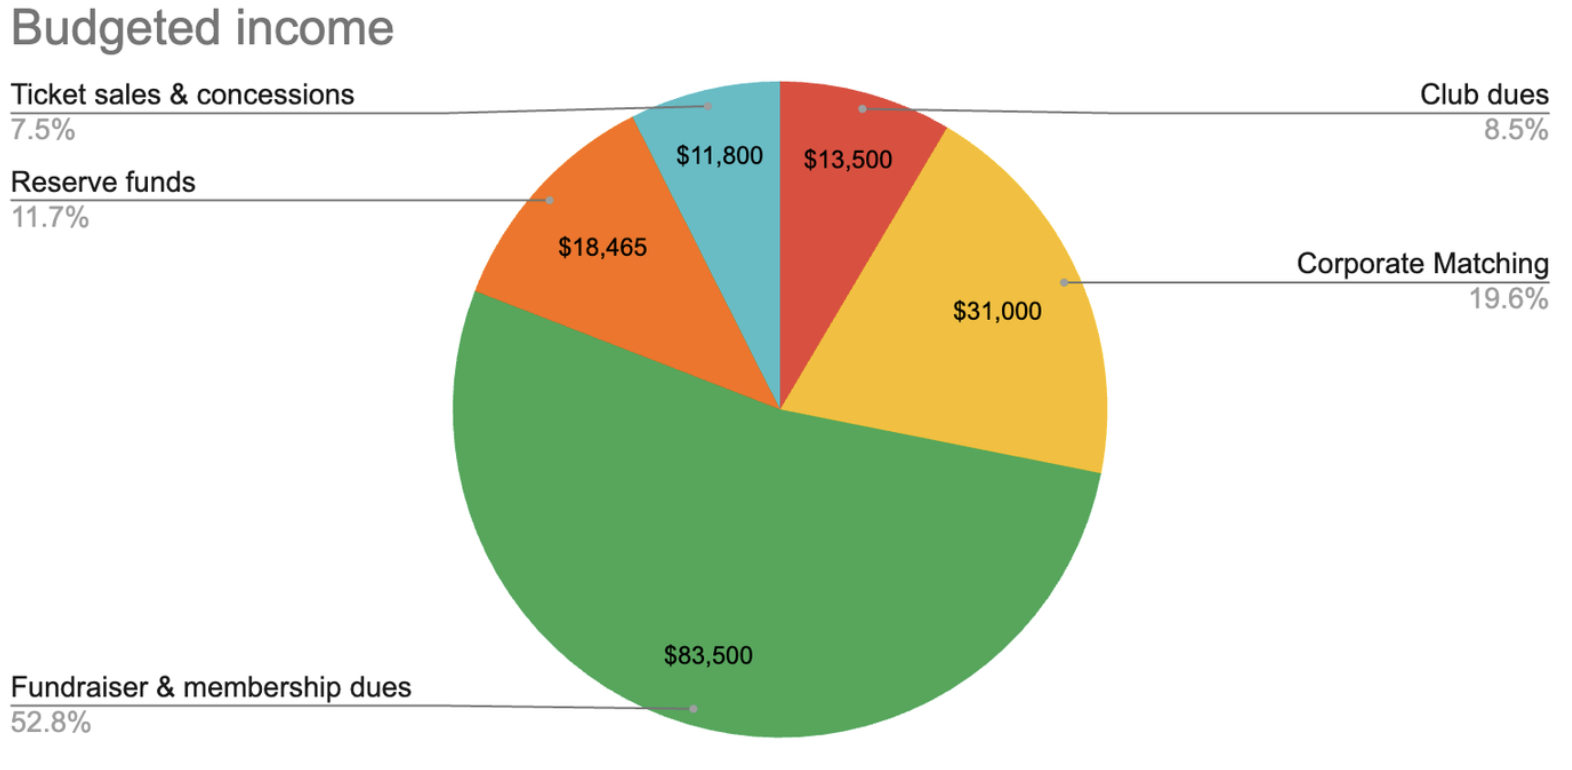
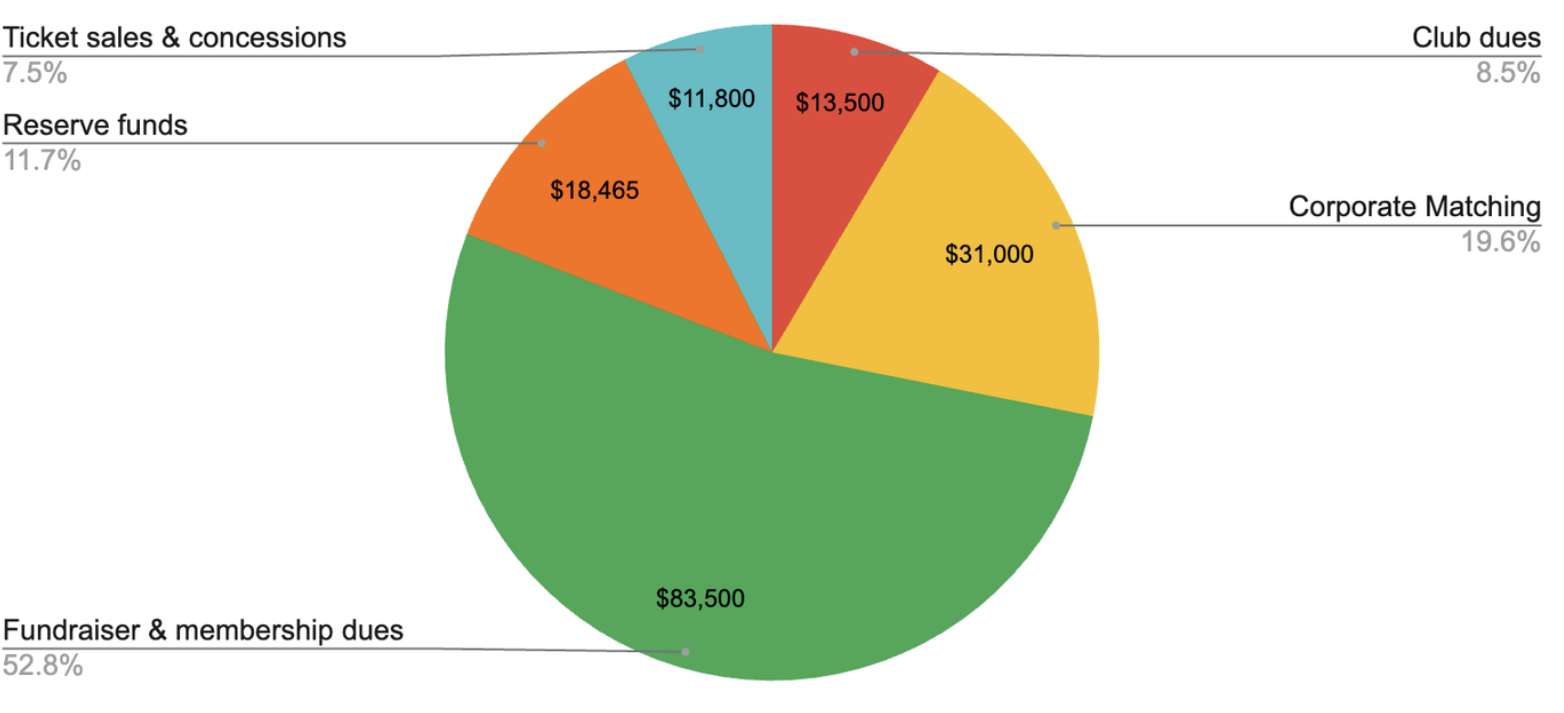
Pull new content from fundraiser flyer front page onto /donate
Adds prizes/raffle details, envelope return deadline, and company
matching paperwork note. Links the homepage callout and donate page
to the new What Does the PTA Fund? page.

diff --git a/public/donate.html b/public/donate.html
@@ -64,10 +64,16 @@
 <p><img src="assets/images/ninja-warrior-run-poster.png" alt="Ninja Warrior Run event poster"></p>
 <p><strong>Event Date:</strong> October 7, 2026</p>
 <p><strong>Fundraising Goal:</strong> $113,000</p>
-<p>That's just $155 per student — help your child reach out to neighbors, friends, and family for support. Donations can be made online below, or by cash/check returned in the fundraising envelope your child will receive the week of September 14. Don't forget to include any company matching info to double your impact!</p>
+<p>That's just $155 per student — help your child reach out to neighbors, friends, and family for support. Donations can be made online below, or by cash/check (payable to Ben Franklin PTA) returned in the fundraising envelope your child will receive the week of September 14; please return envelopes by October 7. Don't forget to check with your company about matching — it doubles your impact! Just include a copy of the completed matching paperwork.</p>
 <p><a href="https://my.cheddarup.com/c/ninja-warrior-run-fundraiser-2026/items" class="btn">Donate Now</a></p>
 <p>For the next few weeks, we'll share tips to make fundraising easy. Then on October 7th, students will celebrate by running an obstacle course during recess!</p>
 <p>We can always use extra hands to make it a fun day for everyone — <a href="https://www.signupgenius.com/go/10C0F4CAFAB2BA1FAC34-65664830-franklin">sign up to volunteer here</a>.</p>
+<h2>Prizes and Raffle</h2>
+<ul>
+<li>A pizza party for the class with the most donations</li>
+<li>Any class that reaches 100% donation participation before October 1, 2026 gets to run the obstacle course twice!</li>
+<li>Drawings for students who raise over $155 — the more you raise, the potentially bigger the prize!</li>
+</ul>
 <h2>Support Our School</h2>
 <p>Every contribution counts! Your generous donations will help the PTA fund essential programs and activities that enhance our children's education and school experience. The funds raised during the Ninja Warrior Run help support a variety of activities and programs, including:</p>
 <ul>
@@ -80,6 +86,7 @@
 <li>On-campus workshops, assemblies, and symposiums</li>
 <li>Books for the library and art supplies</li>
 </ul>
+<p>See <a href="what-we-fund.html">What Does the PTA Fund?</a> for a full breakdown of where the money goes.</p>
 <h2>Giving Levels</h2>
 <table>
 <thead>

diff --git a/public/index.html b/public/index.html
@@ -68,6 +68,7 @@
 <p>This is the PTA's only fundraiser of the year, and it makes a real difference — funding math and reading programs, staff training, classroom supplies, field trips, and enrichment for every Franklin student. Help us reach our $113,000 goal! Students celebrate with an obstacle course during recess on October 7.</p>
 <p><a href="https://my.cheddarup.com/c/ninja-warrior-run-fundraiser-2026/items" class="btn">Donate Now</a></p>
 <p><a href="donate.html" class="btn">See Event Details</a></p>
+<p>See <a href="what-we-fund.html">what your donation supports</a>.</p>
 </div>
 <h2>Announcements</h2>
 <p><strong>Fall Enrichment Class Registration.</strong> Registration for the fall session of on-campus enrichment classes opens soon! PTA member priority registration links go out 9/11 (join or renew your <a href="membership.html">membership</a> by 9/10 to be included); general registration is announced in the PTA newsletter 9/14. See the <a href="enrichment.html">Enrichment Classes</a> page for the full lineup — Bricks 4 Kidz, Chess Club, Ball Hockey, and After School Art.</p>

diff --git a/content/donate.md b/content/donate.md
@@ -16,13 +16,19 @@ We're kicking off the year with our only fundraising event, the Ninja Warrior Ru
 
 **Fundraising Goal:** $113,000
 
-That's just $155 per student — help your child reach out to neighbors, friends, and family for support. Donations can be made online below, or by cash/check returned in the fundraising envelope your child will receive the week of September 14. Don't forget to include any company matching info to double your impact!
+That's just $155 per student — help your child reach out to neighbors, friends, and family for support. Donations can be made online below, or by cash/check (payable to Ben Franklin PTA) returned in the fundraising envelope your child will receive the week of September 14; please return envelopes by October 7. Don't forget to check with your company about matching — it doubles your impact! Just include a copy of the completed matching paperwork.
 
 <a href="https://my.cheddarup.com/c/ninja-warrior-run-fundraiser-2026/items" class="btn">Donate Now</a>
 
 For the next few weeks, we'll share tips to make fundraising easy. Then on October 7th, students will celebrate by running an obstacle course during recess!
 
 We can always use extra hands to make it a fun day for everyone — [sign up to volunteer here](https://www.signupgenius.com/go/10C0F4CAFAB2BA1FAC34-65664830-franklin).
+
+## Prizes and Raffle
+
+- A pizza party for the class with the most donations
+- Any class that reaches 100% donation participation before October 1, 2026 gets to run the obstacle course twice!
+- Drawings for students who raise over $155 — the more you raise, the potentially bigger the prize!
 
 ## Support Our School
 
@@ -36,6 +42,8 @@ Every contribution counts! Your generous donations will help the PTA fund essent
 - Literacy and math-focused events
 - On-campus workshops, assemblies, and symposiums
 - Books for the library and art supplies
+
+See [What Does the PTA Fund?](what-we-fund.html) for a full breakdown of where the money goes.
 
 ## Giving Levels
 
